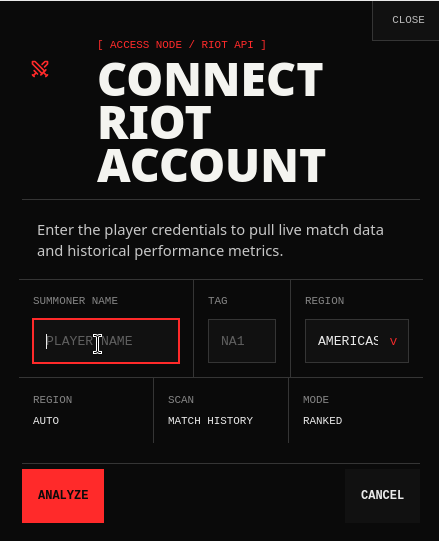
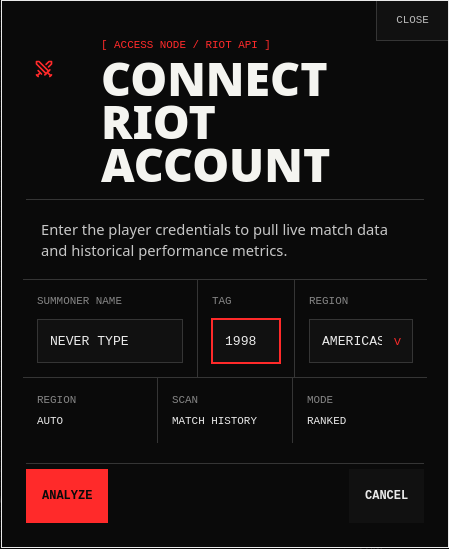
refactor(README.md): added pictures to readme to improve user experience

diff --git a/README.md b/README.md
@@ -15,7 +15,7 @@
 <br />
 <div align="center">
   <a href="https://github.com/srivp365/lol_analyzer">
-    <img src="images/logo.png" alt="Logo" width="80" height="80">
+    <img src="readme_pics/icon.png" alt="Logo" width="80" height="80">
   </a>
 
 <h3 align="center">League of Legends Analyzer</h3>
@@ -23,10 +23,7 @@
   <p align="center">
     project_description
     <br />
-    <a href="https://github.com/srivp365/lol_analyzer"><strong>Explore the docs »</strong></a>
-    <br />
-    <br />
-    <a href="https://github.com/srivp365/lol_analyzer">View Demo</a>
+    <a href="https://lol-analyzer.sriv.me/">View Demo</a>
     &middot;
     <a href="https://github.com/srivp365/lol_analyzer/issues/new?labels=bug&template=bug-report---.md">Report Bug</a>
     &middot;
@@ -67,7 +64,7 @@
 <!-- ABOUT THE PROJECT -->
 ## About The Project
 
-[![Product Name Screen Shot][product-screenshot]](https://example.com)
+[![Product Name Screen Shot][product-screenshot]](https://lol-analyzer.sriv.me/)
 
 A small app I developed for users to be able to review their League of Legends statistics, things like CreepScore /min, Lane phase diff, Gold difference between you and your direct opposition alongside other statistics provided by the Riot API. The hope is for players to be able to have a more active understanding of where they're falling behind the competition (I'm not collecting enough gold, not killing enough creeps, dying more often than securing kills) and be able to pay more attention to this during future games!
 
@@ -143,7 +140,13 @@ To run this program locally, you're going to need **Python 3.10**, **Node.js 18+
 Click on the start analysis button to start.
 
 <img src="readme_pics/input.png" alt="Logo" width="80" height="80">
-Enter the summoner name, tag and region.
+Enter the summoner name, tag and region and hit Analyze.
+
+<img src="readme_pics/loading.png" alt="Logo" width="80" height="80">
+It will load, and return player not found if it doesn't find a player, otherwise it executes and redirects you to the dashboard.
+
+<img src="readme_pics/dashboard.png" alt="Logo" width="80" height="80">
+The dashboard produces an overview of the entered user. 
 
 <p align="right">(<a href="#readme-top">back to top</a>)</p>
 
@@ -217,7 +220,7 @@ Project Link: [https://github.com/srivp365/lol_analyzer](https://github.com/sriv
 [license-url]: https://github.com/srivp365/lol_analyzer/blob/master/LICENSE.txt
 [linkedin-shield]: https://img.shields.io/badge/-LinkedIn-black.svg?style=for-the-badge&logo=linkedin&colorB=555
 [linkedin-url]: https://linkedin.com/in/srivp
-[product-screenshot]: images/screenshot.png
+[product-screenshot]: readme_pics/banner.png
 
 <!-- Shields.io badges. You can a comprehensive list with many more badges at: https://github.com/inttter/md-badges -->
 [React.js]: https://img.shields.io/badge/React-%2320232a.svg?logo=react&logoColor=%2361DAFB
